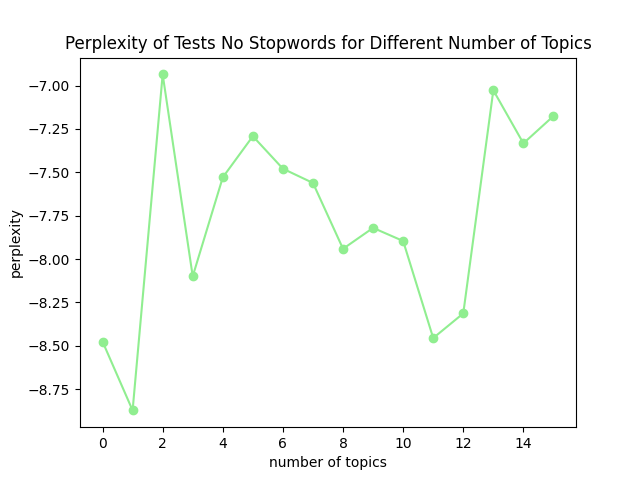
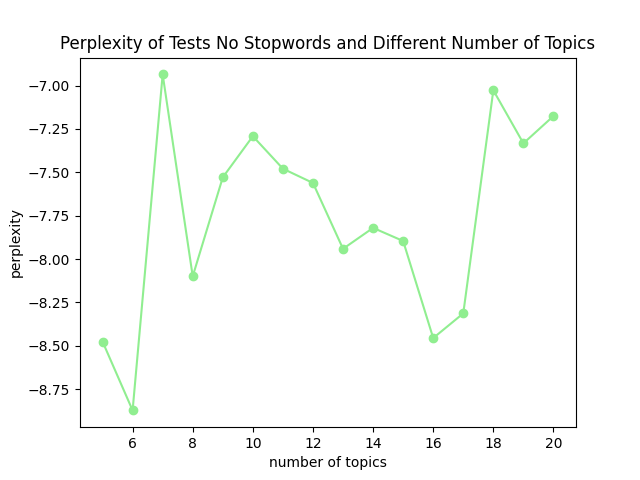
update charts again

diff --git a/src/plot.py b/src/plot.py
@@ -78,14 +78,14 @@ def read_coherence_perplexity(file_name):
 
 def plot_coherence_perplexity(file_name):
     coherence, perplexity = read_coherence_perplexity(file_name)
-    labels = [i for i in range(len(coherence))]
+    labels = [i for i in range(5, len(coherence)+ 5)]
     
     plot_line(labels, coherence, 'number of topics', 'coherence',
-             'Coherence of Tests for Different Number of Topics', 'orchid', 'coherence_no_stopwords_diff_n_topics_2.png')
+             'Coherence of Tests No Stopwords and Different Number of Topics', 'orchid', 'coherence_no_stopwords_diff_n_topics_2.png')
     plt.clf()
 
     plot_line(labels, perplexity, 'number of topics', 'perplexity',
-             'Perplexity of Tests No Stopwords for Different Number of Topics', 'lightgreen', 'perplexity_no_stopwords_diff_n_topics_2.png')
+             'Perplexity of Tests No Stopwords and Different Number of Topics', 'lightgreen', 'perplexity_no_stopwords_diff_n_topics_2.png')
 
 
 plot_coherence_perplexity('dataset_2/no_stopwords_diff_n_topics/')
